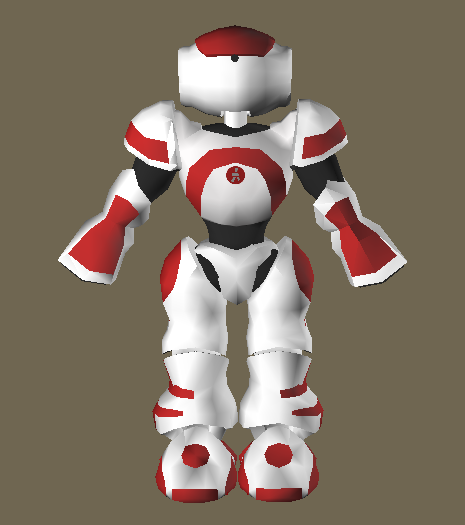
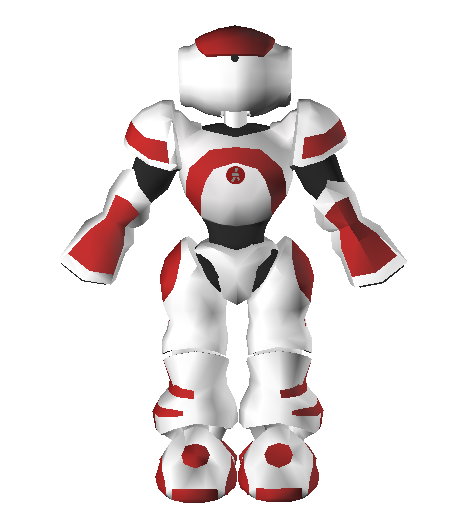
Removed unused images. Made images more printer-friendly (transparent background). Removed "tail" from description of state "set".

diff --git a/SPL-Rules.tex b/SPL-Rules.tex
@@ -337,7 +337,7 @@ states will be set by the GameController.  Teams must implement code to receive 
 
 Robots may be disentangled by the referees at the start of the Ready state.  After that, any robots which are close to each other (\cf Section~\ref{sec:player_pushing}) will be placed manually to the positions shown in Figure~\ref{fig:ko}.
 
-\item[Set.] In this state, the robots stop and wait for kick-off (\cf Section~\ref{sec:kick-off}). If they are not at legal positions, they will be placed manually by the assistant referees to the positions shown in Figure~\ref{fig:ko}. They are allowed to move their heads and tails before the game (re)starts but are not allowed moving their legs or locomote in any fashion. Shortly pressing the chest button will switch the robot to the \emph{playing} state.
+\item[Set.] In this state, the robots stop and wait for kick-off (\cf Section~\ref{sec:kick-off}). If they are not at legal positions, they will be placed manually by the assistant referees to the positions shown in Figure~\ref{fig:ko}. They are allowed to move their heads before the game (re)starts but are not allowed moving their legs or locomote in any fashion. Shortly pressing the chest button will switch the robot to the \emph{playing} state.
 
 %Pressing the bumper sensor on left foot will bring it to the \emph{ready} state, \eg for
 %kick-off.
